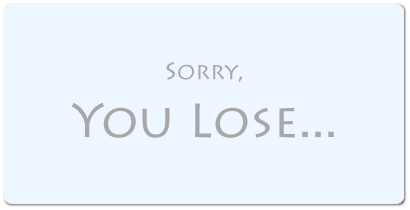
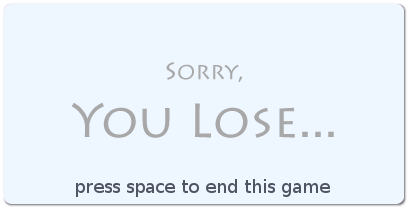
Fixed Unit movement hickup when zooming, Units don't lock up nearly as often or possibly never. Fixed UI top left (victory conditions). Units don't wait one tick before going for their next waypoint.

Changed region(s): [[0.1756, 0.8571, 0.8195, 0.9429]]

diff --git a/trunk/xna/G.O/G.O/Tools/ThemeManager.cs b/trunk/xna/G.O/G.O/Tools/ThemeManager.cs
@@ -31,10 +31,9 @@ namespace ION
             countY = tileCountY;
 
             xDiff = tileCountX - tileCountY;
-
-           
-            width = (tileCountX+tileCountY-1) * ((float)Tile.baseHalfWidth);
-            height = (tileCountX + tileCountY - 1) * ((float)Tile.baseHalfHeight);
+      
+            width = (tileCountX+tileCountY) * ((float)Tile.baseHalfWidth);
+            height = (tileCountX + tileCountY) * ((float)Tile.baseHalfHeight);
             
             if (theme == MOON_THEME)
             {
@@ -62,39 +61,18 @@ namespace ION
 
         public void resizeGroundTexture()
         {
-            width = (countX + countY - 1) * (Tile.baseHalfWidth);
-            height = (countX + countY - 1) * (Tile.baseHalfHeight);
+            width = (countX + countY) * (Tile.baseHalfWidth);
+            height = (countX + countY) * (Tile.baseHalfHeight);
         }
 
         public void drawGroundTexture()
         {
-            //for (int j = -2; j < countY + 2; j++)
-            //{
 
-            //    temp.X = ION.halfWidth + (int)StateTest.translationX - (((int)width / 2) - (j * (int)width / 2));
-            //    temp.Y = (int)StateTest.translationY - (((int)height / 2) * 2 - (j * (((int)height / 2))));
-            //    temp.Width = (int)width;
-            //    temp.Height = (int)height;
-            //    ION.spriteBatch.Draw(Images.groundTexture, temp, Color.White);
-
-            //    for (int i = 0; i < countX; i++)
-            //    {
-            //        temp.X -= ((int)width / 2);
-            //        temp.Y += ((int)height / 2);
-            //        ION.spriteBatch.Draw(Images.groundTexture, temp, Color.White);
-            //        // temp.Width = (int)width;
-            //        //  temp.Height = (int)height;
-            //    }
-
-            //}
-            //temp.X -= ((int)width / 2);
-            //temp.Y += ((int)height / 2);
             temp.X = ION.halfWidth - ((int)width / 2) + (int)StateTest.get().translationX - (int)(xDiff * (Tile.baseHalfWidth / 2));
-            temp.Y = (int)StateTest.get().translationY;// -((int)height / 2);
+            temp.Y = (int)StateTest.get().translationY;
             temp.Width = (int)width;
             temp.Height = (int)height;
-            //temp.X = ION.halfWidth + (int)StateTest.translationX - (((int)width / 2));
-            //temp.Y = (int)StateTest.translationY - (((int)height / 2) * 2 );
+
             ION.spriteBatch.Draw(Images.groundTexture, temp, Color.White);
 
            

diff --git a/trunk/xna/G.O/G.O/UI/Implementations/LevelInfo.cs b/trunk/xna/G.O/G.O/UI/Implementations/LevelInfo.cs
@@ -22,8 +22,17 @@ namespace ION.UI
 
         public override void draw()
         {
-            ION.spriteBatch.DrawString(Fonts.small, "Collect "+Grid.toCollect+" ION, "+(int)Grid.get().totalCollected+" so far", position, Color.Gray);
-            //ION.spriteBatch.DrawString(Fonts.small, "Level: " + StateTest.get().levels[StateTest.get().level], position, Color.Gray);
+            //ION.spriteBatch.DrawString(Fonts.small, "Collect "+Grid.toCollect+" ION, "+(int)Grid.get().totalCollected+" so far", position, Color.Gray);
+            ////ION.spriteBatch.DrawString(Fonts.small, "Level: " + StateTest.get().levels[StateTest.get().level], position, Color.Gray);
+
+            if (StateTest.victoryCondition == StateTest.ANNIHILATION)
+            {
+                ION.spriteBatch.DrawString(Fonts.font, "Destroy all enemy bases!", position, Color.Gray);
+            }
+            else if (StateTest.victoryCondition == StateTest.RESOURCE_RACE)
+            {
+                ION.spriteBatch.DrawString(Fonts.font, "Reach "+(int)Grid.toCollect+" ION!", position, Color.Gray);
+            }
         }
 
         public override void offset(int screenX, int screenY)

diff --git a/trunk/xna/G.O/G.O/State/StateTest.cs b/trunk/xna/G.O/G.O/State/StateTest.cs
@@ -137,10 +137,21 @@ namespace ION
 
         public override void update(int ellapsed)
         {
+            //get keyboard input
+            KeyboardState keyState = Keyboard.GetState();
+
+            //get mouse input
+            MouseState mouseState = Mouse.GetState();
+
+            
             if (gameEnded)
             {
 
                 //listen for key to go back to menu
+                if (keyState.IsKeyDown(Keys.Space))
+                {
+                    ION.get().setState(new StateTitle());
+                }
 
                 return;
             }
@@ -150,11 +161,6 @@ namespace ION
 
             checkVictoryCondition();
 
-            //get keyboard input
-            KeyboardState keyState = Keyboard.GetState();
-
-            //get mouse input
-            MouseState mouseState = Mouse.GetState();
 
            
 

diff --git a/trunk/xna/G.O/G.O/Units/Robot.cs b/trunk/xna/G.O/G.O/Units/Robot.cs
@@ -138,14 +138,11 @@ namespace ION
                 //return returnValue;
             }
 
-            if (targetPosition != null)
-            {
-                move();
-            }
-            else
-            {
+     
+            //else
+            //{
                 // Code for waypoints
-                if (!moving && destination.Count() != 0)
+                if (targetPosition == null && destination.Count > 0)
                 {
 
                     targetPosition = destination.Dequeue();
@@ -153,7 +150,14 @@ namespace ION
                     //targetPos = temp.GetPos(translationX, translationY);            
                 }
 
-            }
+            //}
+
+            if (targetPosition != null)
+            {
+                move();
+            } 
+
+
             if (scan > Grid.TPS * fireRate)
             {
  

diff --git a/trunk/xna/G.O/G.O/Grid/Tile.cs b/trunk/xna/G.O/G.O/Grid/Tile.cs
@@ -107,6 +107,14 @@ namespace ION
             return false;
         }
 
+        public void calcSize()
+        {
+            drawingRectangle.X = (int)(ION.halfWidth + (visualX * baseHalfWidth) + StateTest.get().translationX - (baseHalfWidth));
+            drawingRectangle.Y = (int)((visualY * baseHalfHeight) + StateTest.get().translationY);
+            drawingRectangle.Width = (int)(baseHalfWidth * 2);
+            drawingRectangle.Height = (int)(baseHalfHeight * 2);
+        }
+
         //public Vector2 GetPos(float translationX, float translationY)
         //{
         //    Vector2 v = new Vector2();

diff --git a/trunk/xna/G.O/G.O/UI/GUIManager.cs b/trunk/xna/G.O/G.O/UI/GUIManager.cs
@@ -45,9 +45,9 @@ namespace ION.UI
 
             GUIComposite generalInfo = new GUIComposite(20, 20, Images.selectionBar);
             generalInfo.add(new GUIComponent(10,5, Images.textVictory));
-            generalInfo.add(new LevelInfo(15, 30));
+            generalInfo.add(new LevelInfo(15, 25));
             //generalInfo.add(new StrategyInfo(15, 25));
-            generalInfo.add(new Label(15, 40, "Hold H for Help"));
+            generalInfo.add(new Label(15, 45, "Hold H for Help"));
             addComponent(generalInfo);
 
             //ION.get().IsMouseVisible = false;

diff --git a/trunk/xna/G.O/G.O/Units/Unit.cs b/trunk/xna/G.O/G.O/Units/Unit.cs
@@ -201,7 +201,10 @@ namespace ION
                 if (u is Robot && u.moving)
                 {
                     Robot r = (Robot)u;
-                    
+
+                    r.position.calcSize();
+                    r.targetPosition.calcSize();
+
                     r.movement.X = r.targetPosition.drawingRectangle.X - r.position.drawingRectangle.X;
                     r.movement.Y = r.targetPosition.drawingRectangle.Y - r.position.drawingRectangle.Y;
 

diff --git a/trunk/xna/G.O/G.O/Tools/SoundManager.cs b/trunk/xna/G.O/G.O/Tools/SoundManager.cs
@@ -155,7 +155,7 @@ namespace ION.Tools
 
         public static void turretSound()
         {
-            levelOfAction += 10;
+            levelOfAction += 30;
 
             for (int i = 0; i < turretsoundsCount; i++)
             {
@@ -169,7 +169,7 @@ namespace ION.Tools
 
         public static void fireSound()
         {
-            levelOfAction+=10;
+            levelOfAction+=20;
 
             Double d = Tool.unsafeRandom.NextDouble();
 

diff --git a/trunk/xna/G.O/G.O/Tools/StupidAI.cs b/trunk/xna/G.O/G.O/Tools/StupidAI.cs
@@ -36,7 +36,7 @@ namespace ION.Tools
                 //do things
                 List<Unit> aiUnits = Grid.get().getPlayerUnits(ai);
 
-                if (aiUnits.Count < 3 && maxUnits > 0)
+                if (aiUnits.Count < 2 && maxUnits > 0)
                 {
                     serial++;
                     maxUnits--;

diff --git a/trunk/xna/G.O/G.O/ION.cs b/trunk/xna/G.O/G.O/ION.cs
@@ -417,8 +417,8 @@ namespace ION
 
 
             //Set the inital state
-            state = new StateTitle();
-            //state = new StateIntro();
+            //state = new StateTitle();
+            state = new StateIntro();
 
             //state = new StateTest();
 

diff --git a/trunk/xna/G.O/G.O/Grid/ResourceTile.cs b/trunk/xna/G.O/G.O/Grid/ResourceTile.cs
@@ -78,6 +78,8 @@ namespace ION
             //}
         }
 
+
+
         public override void update()
         {
             owner = nextOwner;
